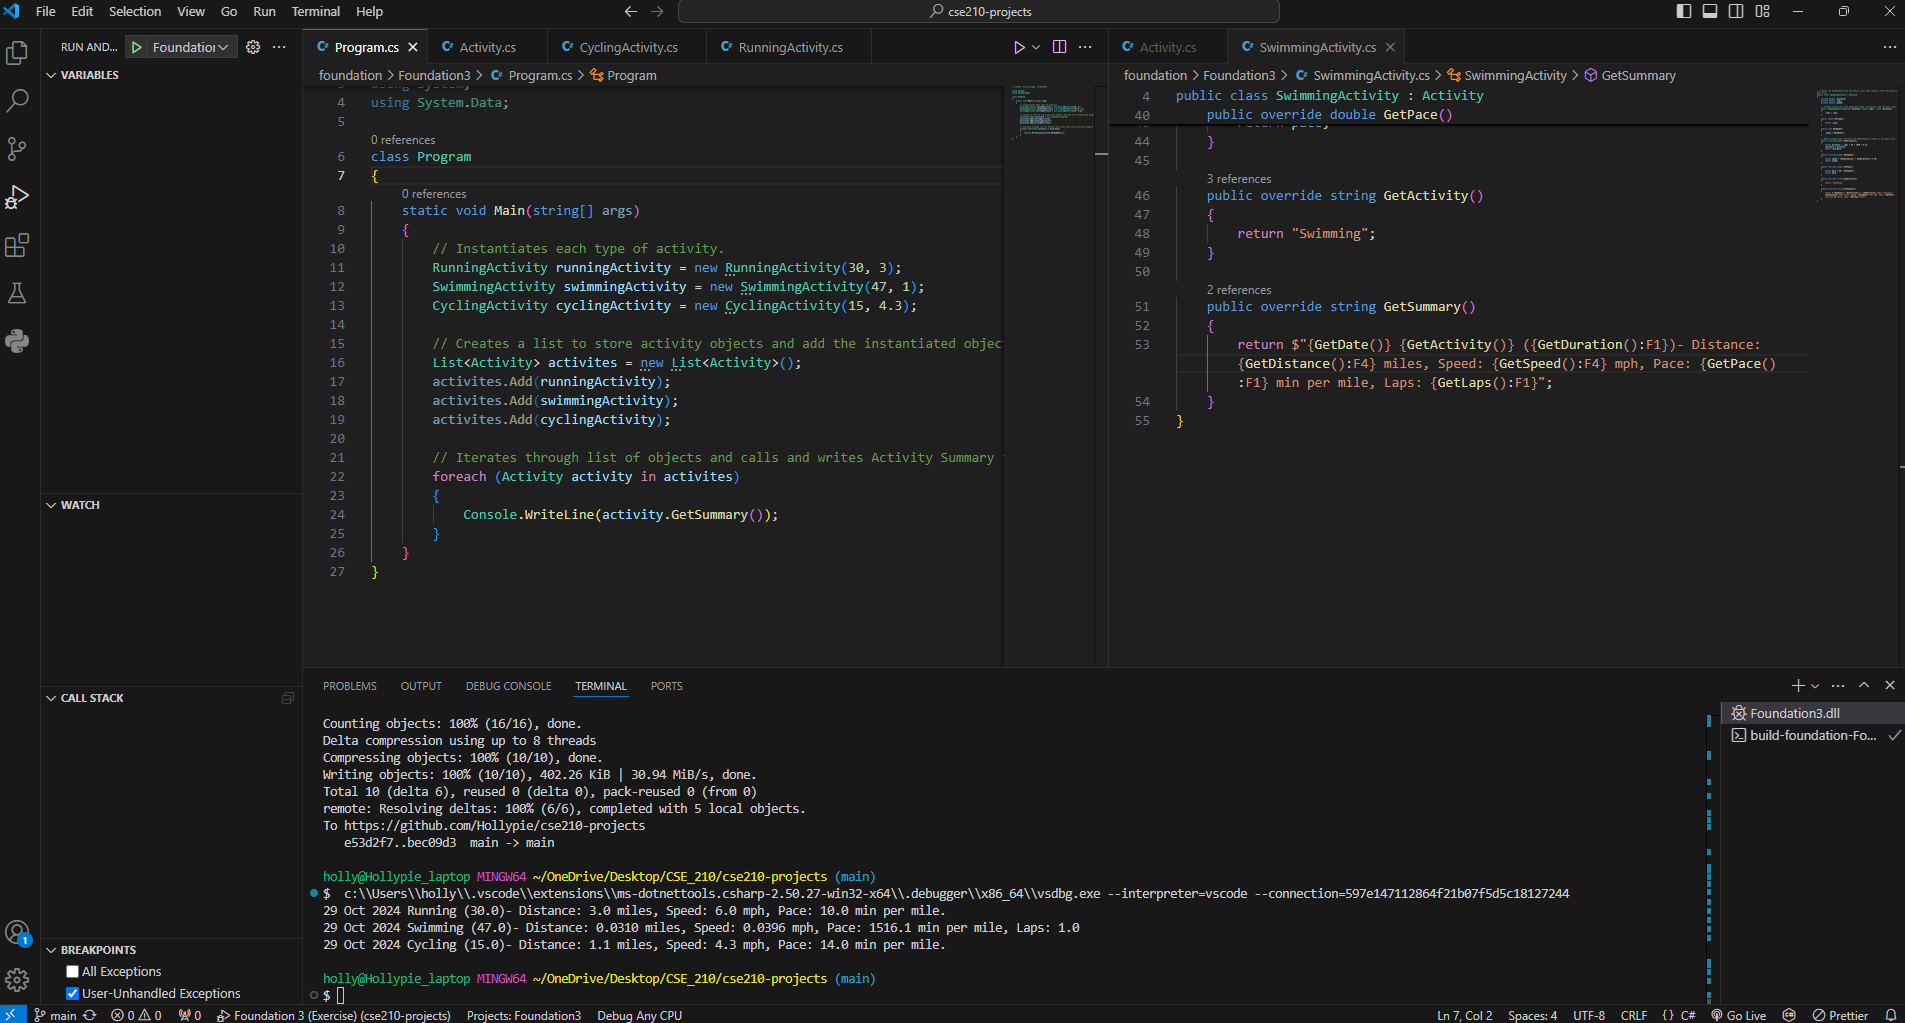
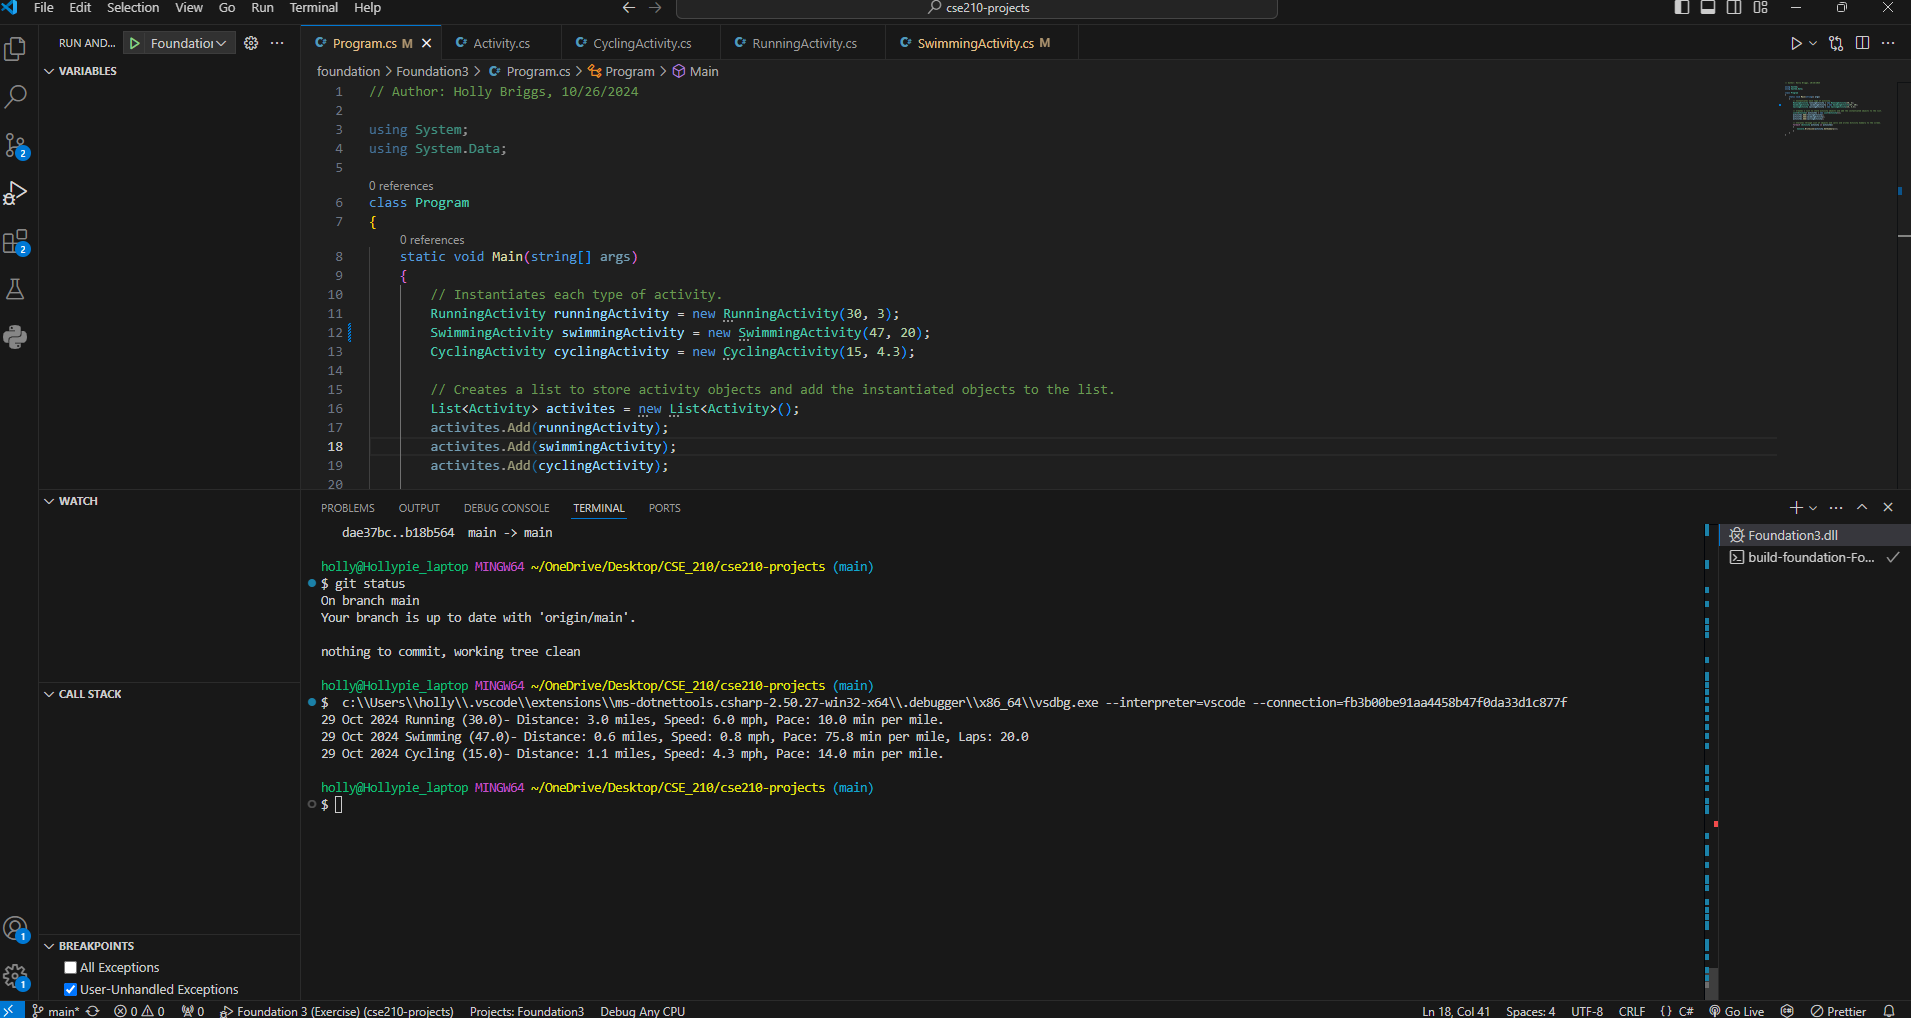
changed the number of laps so the values would make more sense in the swimming activity and updated the screenshot.

diff --git a/foundation/Foundation3/SwimmingActivity.cs b/foundation/Foundation3/SwimmingActivity.cs
@@ -47,9 +47,9 @@ public class SwimmingActivity : Activity
         return "Swimming";
     }
 
-    // Method overrides the GetSummary() method in the base class in order to add laps to the published string and to accomadate the different formatting on the values of speed and distance. If they were formatted in the same way as the others, it would show a zero value.
+    // Method overrides the GetSummary() method in the base class in order to add laps to the published string
     public override string GetSummary()
     {
-        return $"{GetDate()} {GetActivity()} ({GetDuration():F1})- Distance: {GetDistance():F4} miles, Speed: {GetSpeed():F4} mph, Pace: {GetPace():F1} min per mile, Laps: {GetLaps():F1}";
+        return $"{GetDate()} {GetActivity()} ({GetDuration():F1})- Distance: {GetDistance():F1} miles, Speed: {GetSpeed():F1} mph, Pace: {GetPace():F1} min per mile, Laps: {GetLaps():F1}";
     }
 }

diff --git a/foundation/Foundation3/Program.cs b/foundation/Foundation3/Program.cs
@@ -9,7 +9,7 @@ class Program
     {
         // Instantiates each type of activity.
         RunningActivity runningActivity = new RunningActivity(30, 3);
-        SwimmingActivity swimmingActivity = new SwimmingActivity(47, 1);
+        SwimmingActivity swimmingActivity = new SwimmingActivity(47, 20);
         CyclingActivity cyclingActivity = new CyclingActivity(15, 4.3);
         
         // Creates a list to store activity objects and add the instantiated objects to the list.
